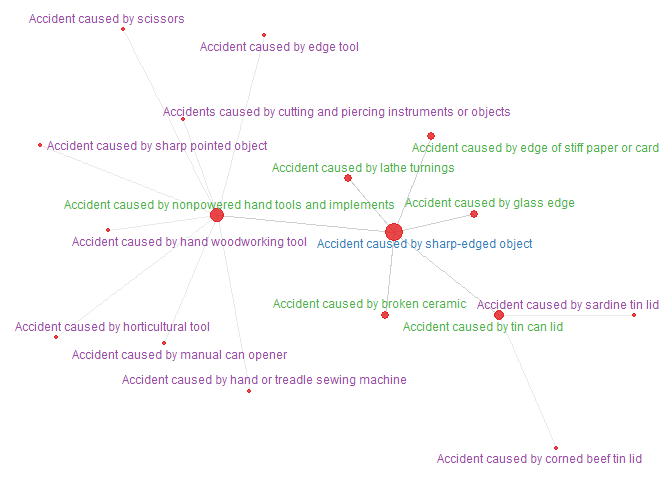
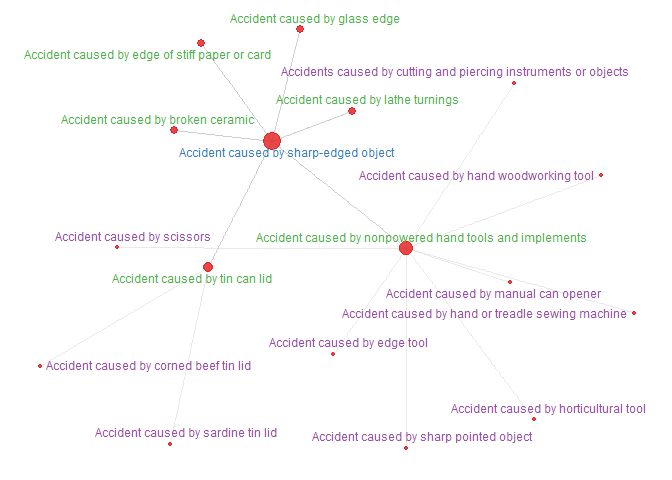
improve plot code in readme & vignette

diff --git a/README.md b/README.md
@@ -226,7 +226,9 @@ data.frame(concept_id=(c(3571338L,3655355L)),
 
 ``` r
 
-relations <- omop_relations_recursive(4055049L, 
+sharp <- omop_names("Accident caused by sharp-edged object", standard="S")
+
+relations <- omop_relations_recursive(sharp$concept_id, 
                                       r_ids=c('Is a','Subsumes'), 
                                       num_recurse=2) 
 
